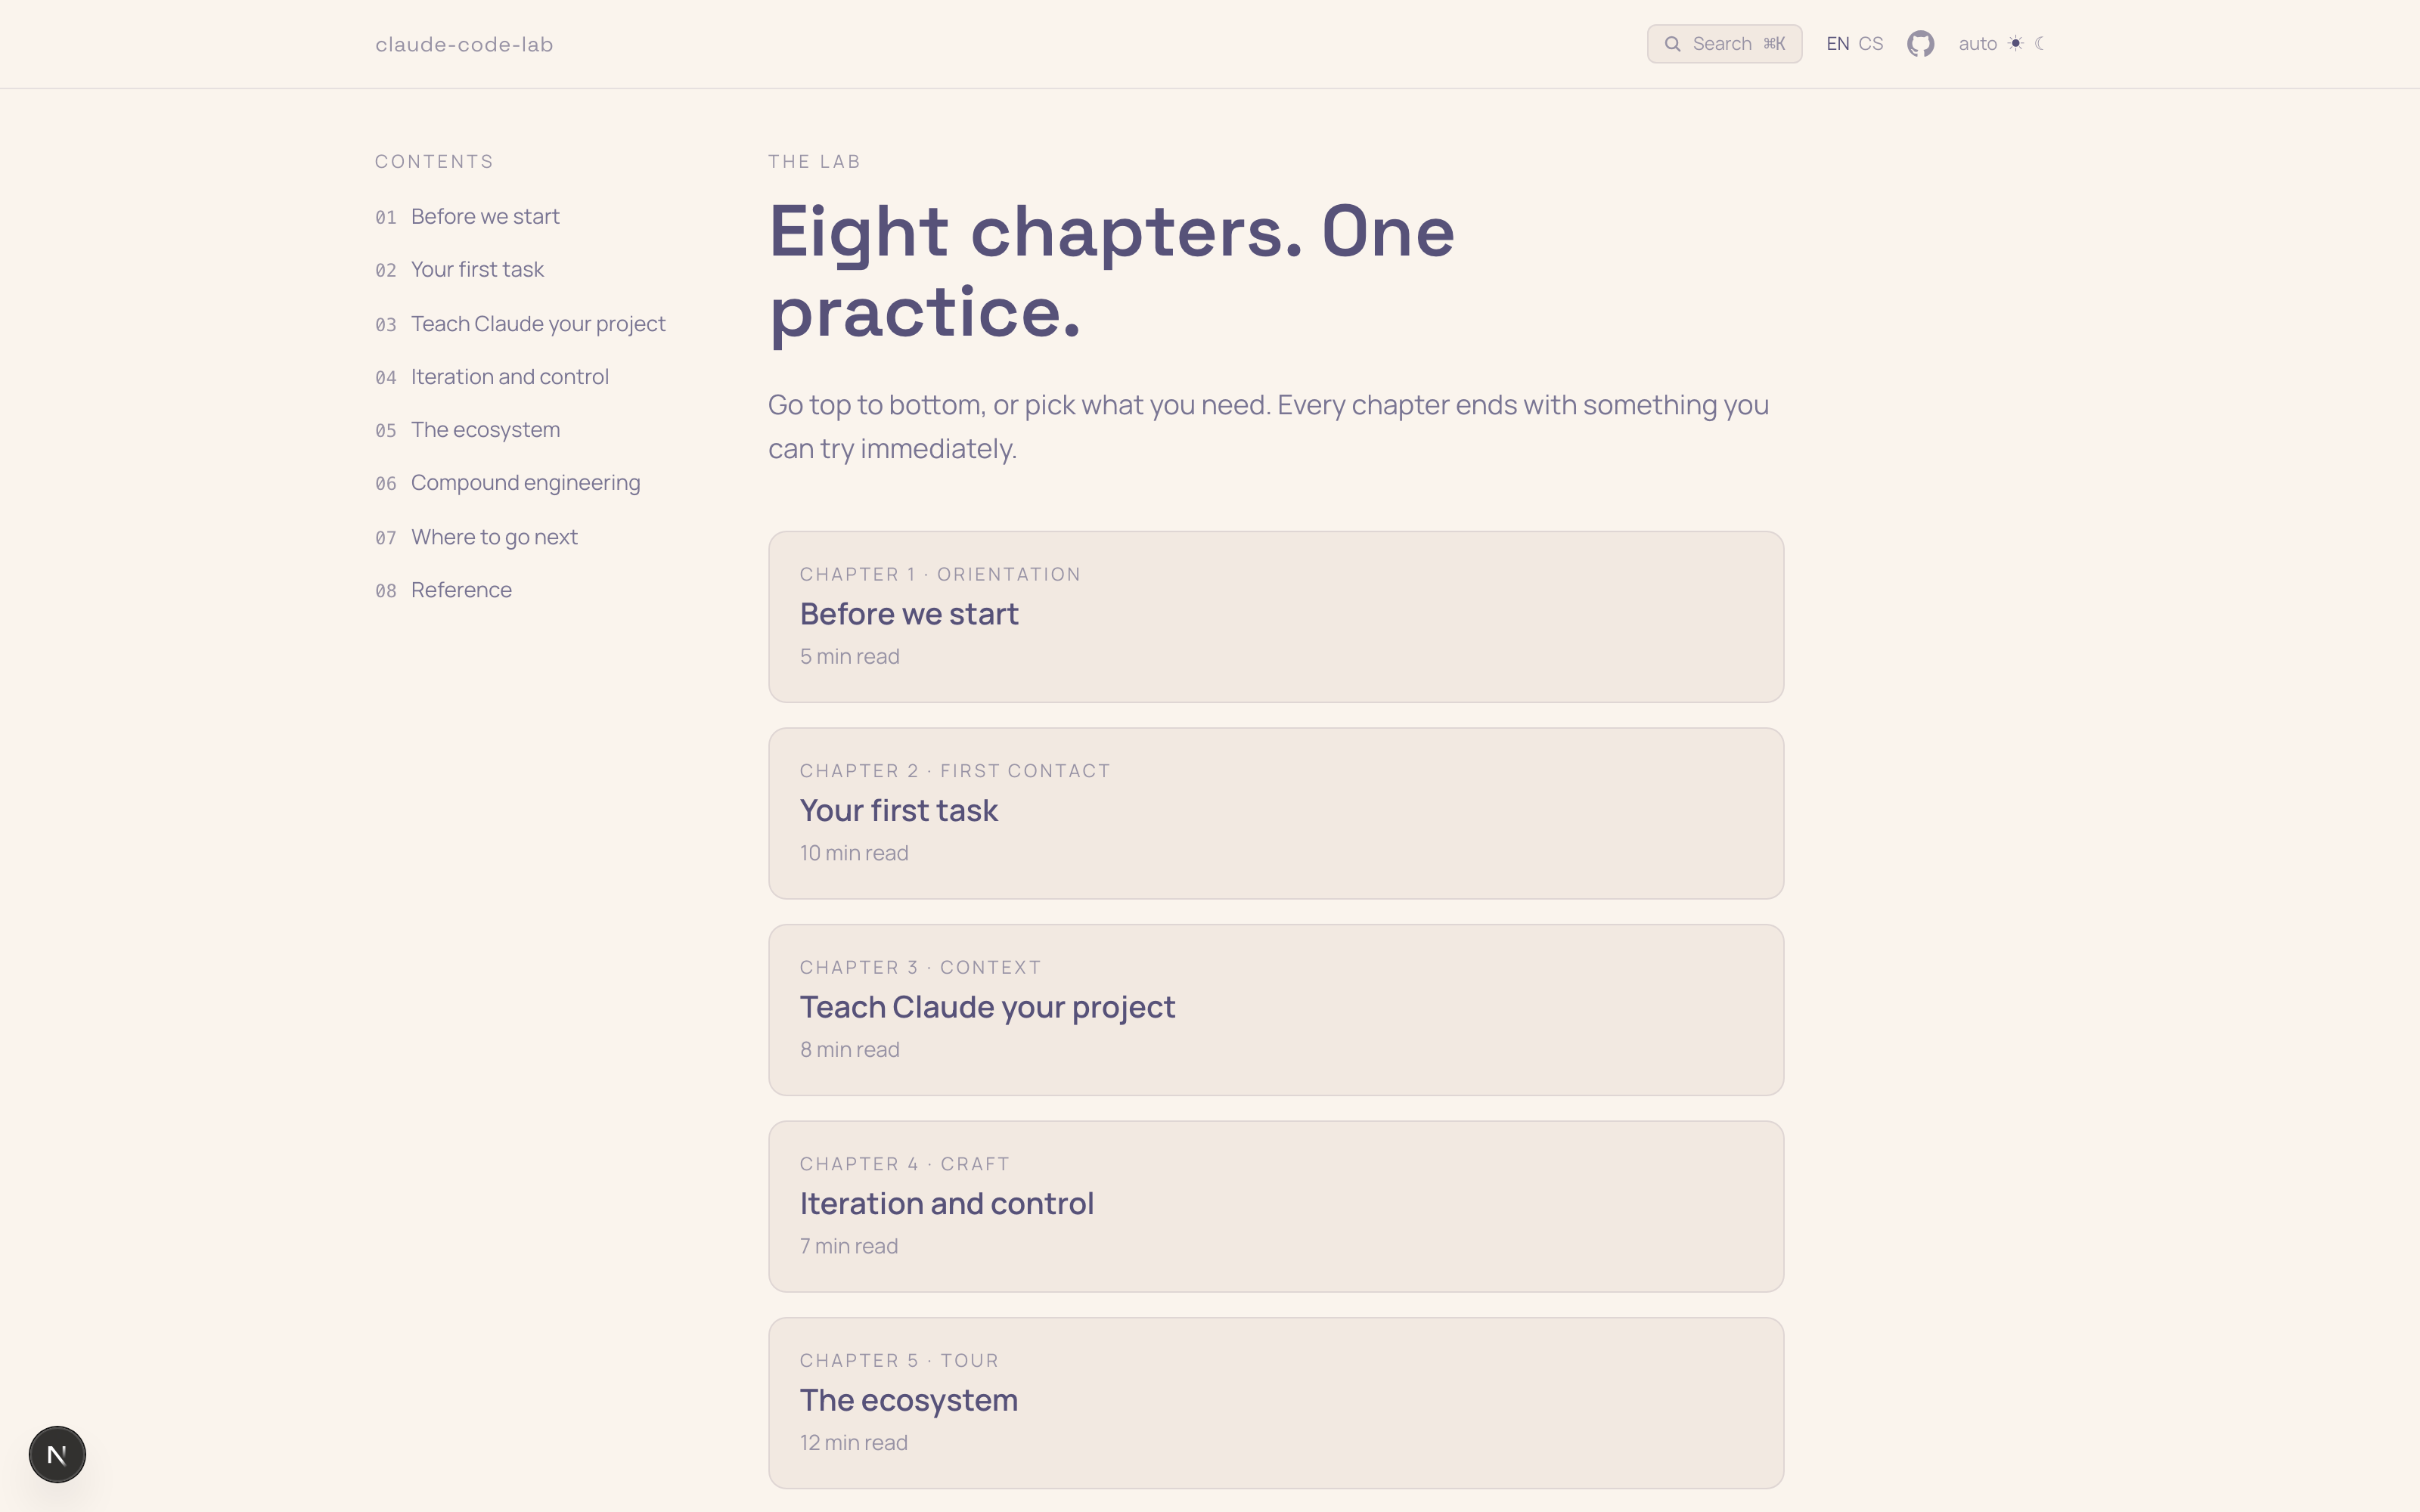
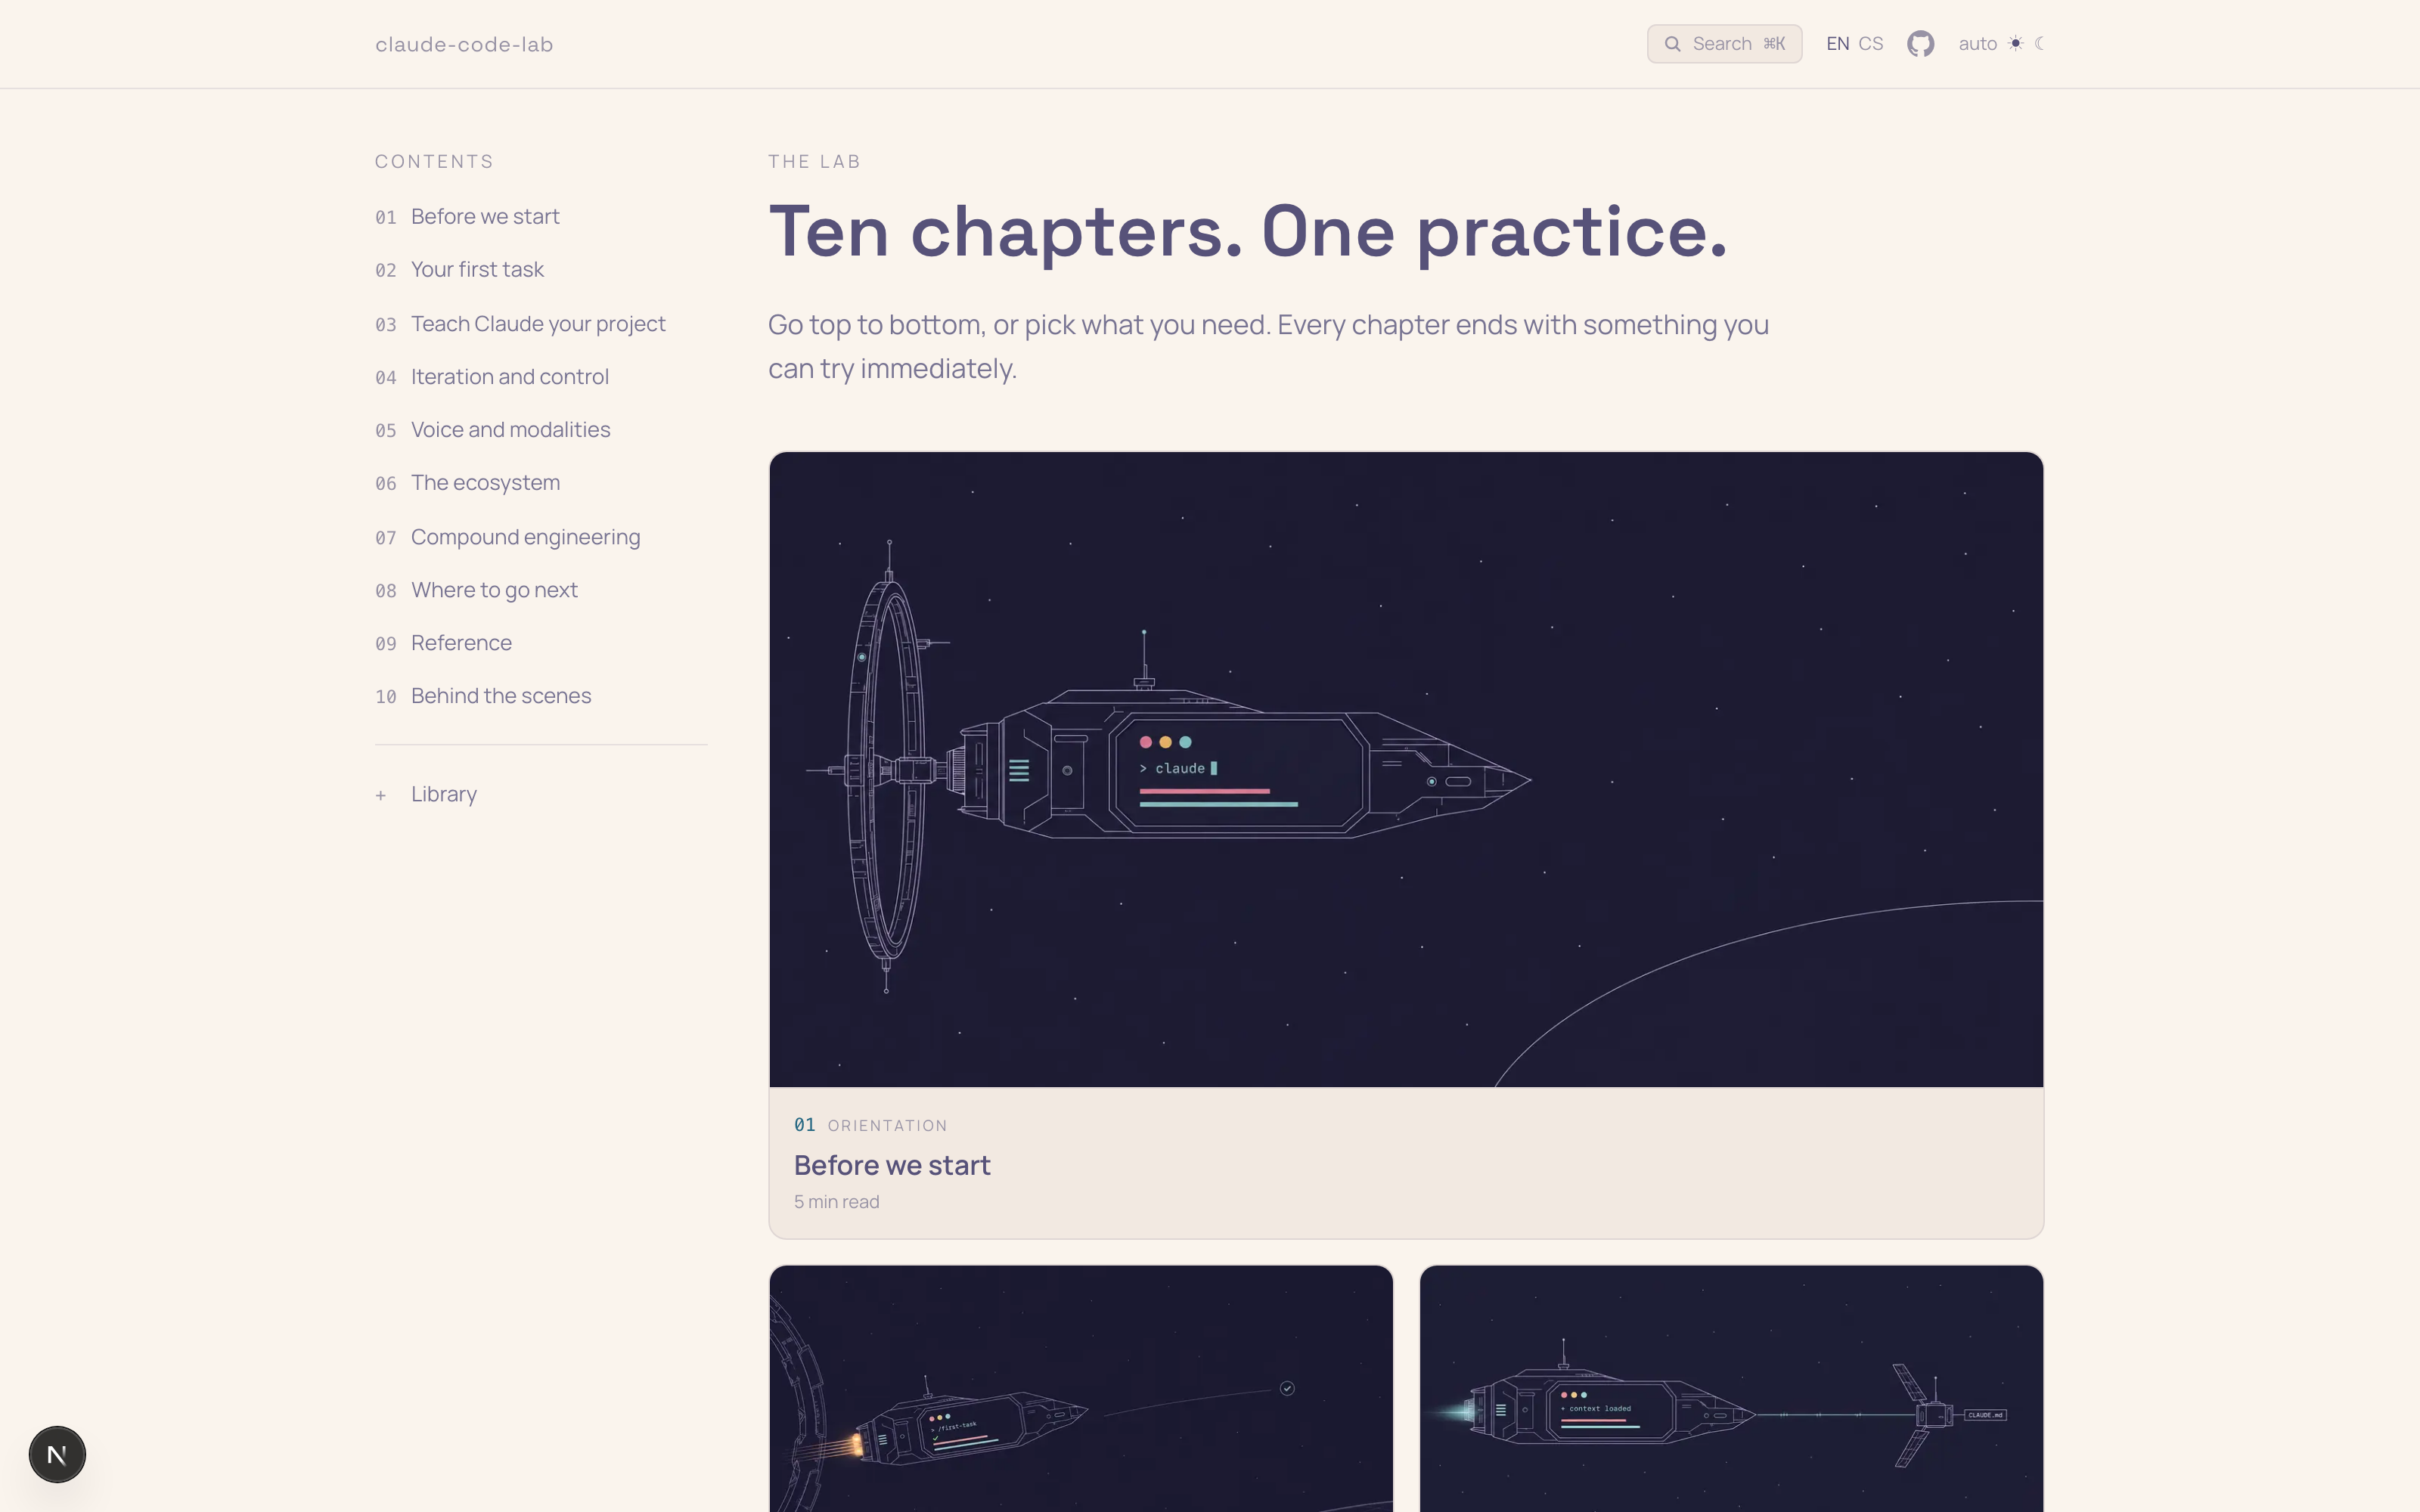
docs(readme): refresh for ten chapters + library + plugin + freshness
The README was lagging the current state of the lab — said "nine
chapters" with a screenshot from before the Voice/Interaction chapter
landed, no mention of the library, no diagnostic plugin install, no
freshness skill.

Changes:
- Hero caption: "ten chapters" (was "nine"); regenerated
  web-lab-index-{dark,light}.png to match the live ten-chapter index.
- New "Spine — ten chapters" section listing all 10 chapters with
  one-line summaries (Voice and modalities now at slot 5).
- New "Library — depth on demand" section introducing the architecture
  and listing the three shipped entries with chapter affinities.
- New "/cc-lab-diagnose — the personal-mirror plugin" section with the
  cross-platform marketplace install commands.
- "What's inside this repo" expanded: content/{en,cs}/ chapters,
  content/{en,cs}/library/ entries, docs/cc-lab-design-system.md,
  plugins/cc-lab/, skills/cc-lab-screenshot/,
  .claude/skills/cc-lab-freshness/ (with note that it runs as an
  Anthropic Routine on a weekly schedule).
- New "Visuals" section explaining the three production paths
  (Codex GPT Image 2 diagrams, freeze stills, vhs casts) plus the
  screenshot capture pipeline.

diff --git a/README.md b/README.md
@@ -2,17 +2,58 @@
 
 [![License: MIT](https://img.shields.io/badge/License-MIT-yellow.svg)](LICENSE)
 
-![claude-code-lab — nine chapters, one practice](public/screenshots/web-lab-index-dark.png)
+![claude-code-lab — ten chapters, one practice](public/screenshots/web-lab-index-dark.png)
 
 **→ Live at [cc-lab.ondrejsvec.com](https://cc-lab.ondrejsvec.com)**
 
 A hands-on guide to agentic coding with Claude Code — from install to compound. Bilingual (EN / CS), practice-oriented, with copyable prompts and sample projects you can run through the full loop.
 
-Covers: install & auth, your first task, teaching Claude your project, iteration & control, the ecosystem, compound engineering, where to go next, a reference, and behind-the-scenes stats from building the lab itself.
+Ten spine chapters teach the path; a small library of depth entries goes further on specific topics; a diagnostic plugin asks how *your* setup measures against the patterns; a freshness skill keeps the lab honest with whatever Anthropic ships next.
 
-## What's inside
+## Spine — ten chapters
+
+1. **Before we start** — orientation
+2. **Your first task** — first contact
+3. **Teach Claude your project** — context
+4. **Iteration and control** — craft
+5. **Voice and modalities** — voice dictation across surfaces, multimodal context
+6. **The ecosystem** — skills, plugins, MCP, hooks
+7. **Compound engineering** — brainstorm → plan → work → review → compound
+8. **Where to go next** — harness building, autonomy, sandboxing
+9. **Reference** — commands, settings, primitives at a glance
+10. **Behind the scenes** — stats from building the lab itself
+
+## Library — depth on demand
+
+Chapter-affiliated entries that go further than a chapter could without bloating the path. Three entries shipped:
+
+- **Context engineering as practice** (chapter 4 affinity) — the four moves, three layers of memory, `/compact` recipes, externalize-before-you-forget
+- **Autonomous loops — when and when not** (chapter 4 affinity) — the loop that earns its keep vs the Ralph Wiggum loop, pre-flight checklist, harness-as-precondition
+- **Using `/cc-lab-diagnose`** (chapter 6 affinity) — what the diagnostic reads, how to interpret an observation, honest limits
+
+Browse at [cc-lab.ondrejsvec.com/en/lab/library](https://cc-lab.ondrejsvec.com/en/lab/library).
+
+## `/cc-lab-diagnose` — the personal-mirror plugin
+
+A Claude Code plugin that reads your repo (or your personal Claude Code config, or both) and returns three to five evidence-grounded observations — each tied to a specific file, a specific quote, and a specific chapter you can read for the missing context. Cross-platform, zero telemetry, runs locally.
+
+```
+/plugin marketplace add ondrej-svec/claude-code-lab
+/plugin install cc-lab@cc-lab
+/cc-lab-diagnose project
+```
+
+See the [library entry](https://cc-lab.ondrejsvec.com/en/lab/library/cc-lab-diagnose) for the full walkthrough.
+
+## What's inside this repo
 
 - **`app/`** — public guide site (Next.js 16, Tailwind 4, Rosé Pine theme, dark/light)
+- **`content/{en,cs}/`** — chapter MDX (10 chapters × 2 locales)
+- **`content/{en,cs}/library/`** — library entry MDX (3 entries × 2 locales)
+- **`docs/cc-lab-design-system.md`** — the lens: voice rules, audience, anti-goals, visual conventions, library architecture
+- **`plugins/cc-lab/`** — `/cc-lab-diagnose` marketplace plugin (skill + Sonnet judge subagent + bundled chapter knowledge + HTML artifact template)
+- **`skills/cc-lab-screenshot/`** — internal screenshot capture skill (computer-use MCP)
+- **`.claude/skills/cc-lab-freshness/`** — internal lens-aware freshness skill that watches Anthropic's shipping surface and proposes lab-shaped edits as PRs (runs as an Anthropic Routine on a weekly schedule; see `scripts/freshness/README.md`)
 - **`samples/python-react/`** — minimal Python + React sample project
 - **`samples/dotnet-core/`** — minimal cross-platform .NET Core sample project
 - **`skill/`** — companion Claude Code skill that walks through the lab from your terminal
@@ -37,10 +78,16 @@ pnpm test         # vitest unit
 pnpm test:e2e     # playwright e2e
 ```
 
-## Screenshots
+## Visuals
 
-See `scripts/capture/README.md` for the three capture families (CLI via
-`freeze`, WEB via Playwright, DESK manual). Regenerate with:
+Three production paths, each fitting a different shape (see `docs/cc-lab-design-system.md` "Hybrid visual strategy" for the full rules):
+
+- **Conceptual diagrams** (boxes, arrows, flow) — Codex GPT Image 2 via the `image-gen` skill. Helpers: `scripts/visuals/gen-chapter-hero.sh` (chapter heroes, ship-locked) and `scripts/visuals/gen-library-diagram.sh` (library diagrams, no ship).
+- **Static terminal stills** — [`freeze`](https://github.com/charmbracelet/freeze) themed rose-pine-moon via `scripts/visuals/freeze.config.json`, rendered as `<TerminalOutput>` MDX.
+- **Animated terminal sessions** — [`vhs`](https://github.com/charmbracelet/vhs), themed via `scripts/visuals/vhs.theme.json`, rendered as `<TerminalCast>` MDX.
+- **Desktop / mobile screenshots** — `cc-lab-screenshot` skill (computer-use MCP). Manual capture is a documented fallback.
+
+Web index captures regenerate via `scripts/capture/`:
 
 ```bash
 ./scripts/capture/generate-fixtures.py    # rebuild CLI ANSI fixtures